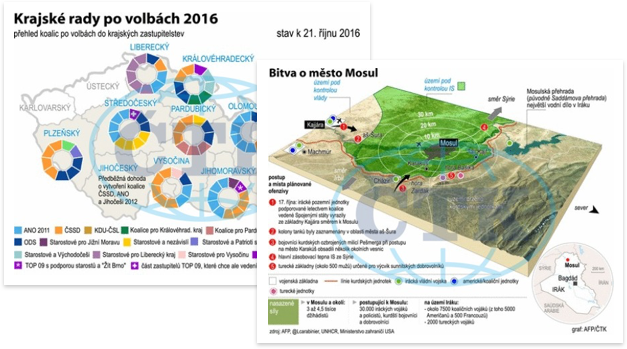
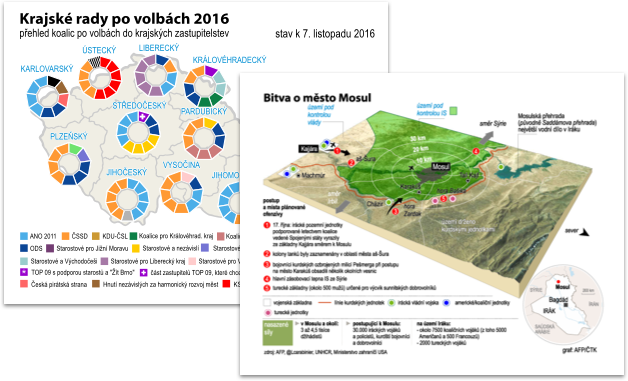
fixes

diff --git a/app/index.html b/app/index.html
@@ -144,30 +144,26 @@
         <h1 class="Text__bold Text__size75 Text__colorWhite marginBottomDouble">
           Nové formáty ve zpravodajství ČTK
         </h1>
-        <div class="backgroundWhiteTrans padSides padTopBottom Section__flexRow">
-           <div class="Col__2 padRight">
-            <p class="Text__size24 Text__colorBlue Text__light marginBottom bottomBorder">
-              Dynamičtější textové i obrazové zpravodajství, nový formát infografiky, rozvoj služby liveblogů i testování živých videopřenosů – to jsou hlavní novinky redakce zpravodajství ČTK.  Většina těchto změn, které ČTK zavedla od 1. června 2016, vychází vstříc potřebám médií s&nbsp;průběžným zpravodajstvím – tedy internetovým zpravodajským portálům, televizím a&nbsp;rádiím.
-            </p>
-          </div>
-          <div class="Col__4">
-            <p class="Text__size21 Text__colorGrey Text__light marginBottom">
-              V&nbsp;textovém zpravodajství výrazně přibylo stručných rychlých informací, především headlinů a&nbsp;krátkých strukturovaných zpráv, jakož i častějších shrnutí. Tento nový přístup se&nbsp;osvědčil zejména u rozsáhlých zpravodajských událostí, jako bylo britské referendum o&nbsp;vystoupení z EU, teroristický útok v&nbsp;Nice, pokus o&nbsp;státní převrat v&nbsp;Turecku i oba očekávané sportovní vrcholy letošního roku – mistrovství Evropy ve fotbale a&nbsp;letní olympiáda v&nbsp;Riu de Janeiro.
-            </p>
-            <p class="Text__size21 Text__colorGrey Text__light marginBottom">
-              ČTK nadále rozvíjí i svou službu <a target="_blank" href="http://www.ctk.cz/sluzby/zpravodajstvi/ctk-live/">ČTK Live</a> – tedy nabídku on-line reportáží (liveblogů) z významných zpravodajských událostí. Od června 2016 agentura výrazně zjednodušila její obchodní model, což přispělo k získání několika nových klientů. 
-            </p>
-            <p class="Text__size21 Text__colorGrey Text__light marginBottom">
-              Zejména webovým médiím je určena nová služba Webfoto. Díky ní odběratelé obrazového servisu dostávají z vybraných událostí pokrývaných fotoreportéry ČTK první snímky dříve než dosud. Fotografové první příspěvek vysílají needitovaný přímo z terénu, poté – po úpravách fotoeditorem –  je snímek vydán klasickým obrazovým servisem ještě jednou.
-            </p>
-            <p class="Text__size21 Text__colorGrey Text__light marginBottom">
-              Další změnou ve zpravodajském servisu ČTK je <a target="_blank" href="http://www.ctk.cz/sluzby/zpravodajstvi/infograficke_zpravodajstvi/">nová infografika</a> zaměřená zejména na potřeby zpravodajských webů a&nbsp;mobilních aplikací. Infografika v&nbsp;novém formátu je rychlejší, jednodušší a&nbsp;snáze přizpůsobitelná potřebám konkrétního vydavatele.
-            </p>
-            <p class="Text__size21 Text__colorGrey Text__light marginBottom">
-              Ve fázi testování je služba živých videopřenosů. Videoredakce ČTK je nově vybavena soupravou pro streamování videa, novou kamerou a&nbsp;dalším příslušenstvím. Videopřenosy bude ČTK připravovat z nejatraktivnějších zpravodajských událostí a&nbsp;bude je testovat s&nbsp;vybranými klienty, kteří již dříve projevili o&nbsp;tuto službu zájem.
-              <span class="Ender"></span>
-            </p>
-          </div>
+        <div class="backgroundWhiteTrans padSides padTopBottom">
+          <p class="Text__size24 Text__colorBlue Text__light marginBottom">
+            Dynamičtější textové i obrazové zpravodajství, nový formát infografiky, rozvoj služby liveblogů i testování živých videopřenosů – to jsou hlavní novinky redakce zpravodajství ČTK.  Většina těchto změn, které ČTK zavedla od 1. června 2016, vychází vstříc potřebám médií s&nbsp;průběžným zpravodajstvím – tedy internetovým zpravodajským portálům, televizím a&nbsp;rádiím.
+          </p>
+          <p class="Text__size21 Text__colorGrey Text__light marginBottom">
+            V&nbsp;textovém zpravodajství výrazně přibylo stručných rychlých informací, především headlinů a&nbsp;krátkých strukturovaných zpráv, jakož i častějších shrnutí. Tento nový přístup se&nbsp;osvědčil zejména u rozsáhlých zpravodajských událostí, jako bylo britské referendum o&nbsp;vystoupení z EU, teroristický útok v&nbsp;Nice, pokus o&nbsp;státní převrat v&nbsp;Turecku i oba očekávané sportovní vrcholy letošního roku – mistrovství Evropy ve fotbale a&nbsp;letní olympiáda v&nbsp;Riu de Janeiro.
+          </p>
+          <p class="Text__size21 Text__colorGrey Text__light marginBottom">
+            ČTK nadále rozvíjí i svou službu <a target="_blank" href="http://www.ctk.cz/sluzby/zpravodajstvi/ctk-live/">ČTK Live</a> – tedy nabídku on-line reportáží (liveblogů) z významných zpravodajských událostí. Od června 2016 agentura výrazně zjednodušila její obchodní model, což přispělo k získání několika nových klientů. 
+          </p>
+          <p class="Text__size21 Text__colorGrey Text__light marginBottom">
+            Zejména webovým médiím je určena nová služba Webfoto. Díky ní odběratelé obrazového servisu dostávají z vybraných událostí pokrývaných fotoreportéry ČTK první snímky dříve než dosud. Fotografové první příspěvek vysílají needitovaný přímo z terénu, poté – po úpravách fotoeditorem –  je snímek vydán klasickým obrazovým servisem ještě jednou.
+          </p>
+          <p class="Text__size21 Text__colorGrey Text__light marginBottom">
+            Další změnou ve zpravodajském servisu ČTK je <a target="_blank" href="http://www.ctk.cz/sluzby/zpravodajstvi/infograficke_zpravodajstvi/">nová infografika</a> zaměřená zejména na potřeby zpravodajských webů a&nbsp;mobilních aplikací. Infografika v&nbsp;novém formátu je rychlejší, jednodušší a&nbsp;snáze přizpůsobitelná potřebám konkrétního vydavatele.
+          </p>
+          <p class="Text__size21 Text__colorGrey Text__light marginBottom">
+            Ve fázi testování je služba živých videopřenosů. Videoredakce ČTK je nově vybavena soupravou pro streamování videa, novou kamerou a&nbsp;dalším příslušenstvím. Videopřenosy bude ČTK připravovat z nejatraktivnějších zpravodajských událostí a&nbsp;bude je testovat s&nbsp;vybranými klienty, kteří již dříve projevili o&nbsp;tuto službu zájem.
+            <span class="Ender"></span>
+          </p>
         </div>
       </div>
     </section>
@@ -179,26 +175,30 @@
         <h1 class="Text__bold Text__size75 Text__colorWhite padTopLarge">
           Poznatky od kolegů z médií jsou klíčové pro rozvoj agenturních služeb
         </h1>
-        <div class="backgroundWhiteTrans padSides padTopBottom marginTopDouble ">
-          <p class="Text__size24 Text__colorBlue Text__light marginBottom">
-            Čerstvé pečivo, čerstvá káva a čerstvé informace o novinkách v agenturních službách se podávaly na pracovních snídaních v ČTK, na nichž kolegy z redakcí novin, zpravodajských webů a rozhlasových a televizních stanic seznámili redakční manažeři ČTK s rozvojovým programem, který je určen zejména zejména médiím.
-          </p>
-          <p class="Text__size21 Text__colorGrey Text__light marginBottom">
-              „Byla to skvělá příležitost k otevřené debatě s kolegy, kteří naši práci využívají každý den,“ ocenila setkání šéfeditorka zpravodajství ČTK Radka Marková. „Poznatky z diskusí jsou pro nás mimořádně důležité při rozhodování o dalším rozvoji našich služeb,“ dodala.
-          </p>
-          <p class="Text__size21 Text__colorGrey Text__light marginBottom">
-            Kolegové z redakcí při jedné z pracovních snídaní takto získali například jasnou představu o výhodách nového servisu <a target="_blank" href="http://www.ctk.cz/sluzby/zpravodajstvi/ctk-live/">ČTK Live</a>, který přináší multimediální on-line reportáže z důležitých a atraktivních událostí. „Zaujaly je nejen rozsah a rychlost, vlastně průběžná aktuálnost tohoto servisu, ale i uživatelská vstřícnost jeho technické podoby,“ říká Radka Marková.
-          </p>
-          <p class="Text__size21 Text__colorGrey Text__light marginBottom">
-            Reportáže, či spíš soustavně updatované liveblogy,  Obsahují vedle textů i fotografie, audia, grafy, odkazy na původní dokumenty a zdroje či komentáře převzaté ze sociálních sítí. IT odborníci ČTK hostům předvedli, jak jednoduše se dají reportáže vkládat do jejich webů i jak snadná je obsluha agenturní publikační platformy, pokud chce klient reportáž upravovat nebo doplňovat o své příspěvky.
-          </p>
-          <p class="Text__size21 Text__colorGrey Text__light marginBottom">
-            Tématem dalšího setkání byly nové formáty zpravodajství ČTK, zejména rozšíření a zrychlení agenturních headlinů, tedy stručných, bleskových zpráv, jež předcházejí standardním zprávám. „Ujistili jsme se, že headliny jsou pro moderní zpravodajská média nepostradatelným formátem a že důrazem na ně reagujeme na jejich potřeby,“ uvedla šéfeditorka s odkazem na debatu s kolegy. Stejně tak přivítali zrychlení fotozpravodajství z horkých aktualit a svižnější dodávky agenturních grafů, o nichž byla při návštěvě ČTK řeč.
-          </p>
-          <p class="Text__size21 Text__colorGrey Text__light marginBottom">
-            Osobní setkávání s lidmi, kteří dennodenně pracují se servisem ČTK, považuje generální ředitel a šéfredaktor agentury Jiří Majstr za klíčovou metodu stanovování strategických priorit  podniku. „Určitě v tom budeme pokračovat,“ ujišťuje.
-            <span class="Ender"></span>
-          </p>
+        <div class="backgroundWhiteTrans padSides padTopBottom marginTopDouble Section__flexRow">
+          <div class="Col__2 padRight">
+            <p class="Text__size24 Text__colorBlue Text__light marginBottom bottomBorder">
+              Čerstvé pečivo, čerstvá káva a čerstvé informace o novinkách v agenturních službách se podávaly na pracovních snídaních v ČTK, na nichž kolegy z redakcí novin, zpravodajských webů a rozhlasových a televizních stanic seznámili redakční manažeři ČTK s rozvojovým programem, který je určen zejména zejména médiím.
+            </p>
+          </div>
+          <div class="Col__4">
+            <p class="Text__size21 Text__colorGrey Text__light marginBottom">
+                „Byla to skvělá příležitost k otevřené debatě s kolegy, kteří naši práci využívají každý den,“ ocenila setkání šéfeditorka zpravodajství ČTK Radka Marková. „Poznatky z diskusí jsou pro nás mimořádně důležité při rozhodování o dalším rozvoji našich služeb,“ dodala.
+            </p>
+            <p class="Text__size21 Text__colorGrey Text__light marginBottom">
+              Kolegové z redakcí při jedné z pracovních snídaní takto získali například jasnou představu o výhodách nového servisu <a target="_blank" href="http://www.ctk.cz/sluzby/zpravodajstvi/ctk-live/">ČTK Live</a>, který přináší multimediální on-line reportáže z důležitých a atraktivních událostí. „Zaujaly je nejen rozsah a rychlost, vlastně průběžná aktuálnost tohoto servisu, ale i uživatelská vstřícnost jeho technické podoby,“ říká Radka Marková.
+            </p>
+            <p class="Text__size21 Text__colorGrey Text__light marginBottom">
+              Reportáže, či spíš soustavně updatované liveblogy,  Obsahují vedle textů i fotografie, audia, grafy, odkazy na původní dokumenty a zdroje či komentáře převzaté ze sociálních sítí. IT odborníci ČTK hostům předvedli, jak jednoduše se dají reportáže vkládat do jejich webů i jak snadná je obsluha agenturní publikační platformy, pokud chce klient reportáž upravovat nebo doplňovat o své příspěvky.
+            </p>
+            <p class="Text__size21 Text__colorGrey Text__light marginBottom">
+              Tématem dalšího setkání byly nové formáty zpravodajství ČTK, zejména rozšíření a zrychlení agenturních headlinů, tedy stručných, bleskových zpráv, jež předcházejí standardním zprávám. „Ujistili jsme se, že headliny jsou pro moderní zpravodajská média nepostradatelným formátem a že důrazem na ně reagujeme na jejich potřeby,“ uvedla šéfeditorka s odkazem na debatu s kolegy. Stejně tak přivítali zrychlení fotozpravodajství z horkých aktualit a svižnější dodávky agenturních grafů, o nichž byla při návštěvě ČTK řeč.
+            </p>
+            <p class="Text__size21 Text__colorGrey Text__light marginBottom">
+              Osobní setkávání s lidmi, kteří dennodenně pracují se servisem ČTK, považuje generální ředitel a šéfredaktor agentury Jiří Majstr za klíčovou metodu stanovování strategických priorit  podniku. „Určitě v tom budeme pokračovat,“ ujišťuje.
+              <span class="Ender"></span>
+            </p>
+          </div>
         </div>
       </div>
     </section>

diff --git a/dist/service-worker.js b/dist/service-worker.js
@@ -31,7 +31,7 @@ importScripts("scripts/sw/sw-toolbox.js","scripts/sw/runtime-caching.js");
 
 
 /* eslint-disable quotes, comma-spacing */
-var PrecacheConfig = [["images/academyImage.jpg","9623b14175a4b0a22e96d3b812e446d1"],["images/akademie.jpg","815ee2028cc63e2fc187d98fc1b227b3"],["images/akademieTn.jpg","0c7380b02eaae10f55acfe489cf11d5d"],["images/asklogo.png","f1a406363556d3dc482a6c9dc1900b21"],["images/coffeeFade.jpg","05de53900043f3e7a270c7e81b8d3101"],["images/coffeeFadeTn.jpg","2bbfc4cdb61f2b0177ba57b491d67f35"],["images/director.jpg","f6e87684d14bbffd740c1d95a00873d2"],["images/directorTn.jpg","4cad5f5327931d79b06fa94f0666075a"],["images/formatsTn.jpg","2c5e1067b879e77fffc7c821bcccc78a"],["images/fotobank-screen1.png","07bc876f8e32319e14f6209f470e9315"],["images/fotobank-screen2.png","92e2e0945eaeb009912e39a7593db3bf"],["images/fotobankaTn.jpg","d46ff2ba33e4fdc64a15913190034cea"],["images/hamburger.svg","d2cb0dda3e8313b990e8dcf5e25d2d0f"],["images/infographics-screens.png","f6d4f87d9182e0cd6e9a79642c456cac"],["images/infographics.jpg","50e81c45a76d7706c2c76599fee7cb7f"],["images/infographicsTn.jpg","a223ac9ca8af921ab63fe532d3f671d2"],["images/logo.png","5a6fc991962bdb70f3d75212c7c9ff8f"],["images/newFormats.jpg","a9c5cb99a229fa26224db3b487a0bb76"],["images/readMore.svg","d552e928e82eb5ed155e53e11b659704"],["images/returnArrow.png","c55556cea0139bab3a1ba8ec157216c8"],["images/signature.png","04c7317fc76f53a8261591bafe53a268"],["images/students.jpg","ce8211632f0605c6d24f37cc344d755f"],["images/studentsTn.jpg","08817ce8077144f75c7798074c1a2183"],["images/touch/apple-touch-icon.png","7326f54bfe6776293f08b34c3a5fde7b"],["images/touch/chrome-touch-icon-192x192.png","571f134f59f14a6d298ddd66c015b293"],["images/touch/icon-128x128.png","7c46d686765c49b813ac5eb34fabf712"],["images/touch/ms-touch-icon-144x144-precomposed.png","452d90b250d6f41a0c8f9db729113ffd"],["images/vondrous.jpg","14c542e25cfc10ed5d548bb855a12c15"],["images/vondrousTn.jpg","574aebb77090940a9aa741986ee74d3d"],["images/webfoto.jpg","99181bd42dcf4e9a1959d93e97598ef8"],["images/webfotoTn.jpg","9a62a5bb76abf0998850b8b592dae044"],["index.html","7026e9442dbdabe0c7508a7c4560f864"],["scripts/main.min.js","8a05a3e403b66160a5c77262da08dc74"],["scripts/sw/runtime-caching.js","e3e34dcb62b5d62453b9215961585488"],["scripts/sw/sw-toolbox.js","e7e54a466864d42dcccc8c3f80a91d1f"],["styles/styles.css","829a582c94d639653b44ce82c5e0599e"]];
+var PrecacheConfig = [["images/academyImage.jpg","9623b14175a4b0a22e96d3b812e446d1"],["images/akademie.jpg","815ee2028cc63e2fc187d98fc1b227b3"],["images/akademieTn.jpg","0c7380b02eaae10f55acfe489cf11d5d"],["images/asklogo.png","f1a406363556d3dc482a6c9dc1900b21"],["images/coffeeFade.jpg","05de53900043f3e7a270c7e81b8d3101"],["images/coffeeFadeTn.jpg","2bbfc4cdb61f2b0177ba57b491d67f35"],["images/director.jpg","f6e87684d14bbffd740c1d95a00873d2"],["images/directorTn.jpg","4cad5f5327931d79b06fa94f0666075a"],["images/formatsTn.jpg","2c5e1067b879e77fffc7c821bcccc78a"],["images/fotobank-screen1.png","07bc876f8e32319e14f6209f470e9315"],["images/fotobank-screen2.png","92e2e0945eaeb009912e39a7593db3bf"],["images/fotobankaTn.jpg","d46ff2ba33e4fdc64a15913190034cea"],["images/hamburger.svg","d2cb0dda3e8313b990e8dcf5e25d2d0f"],["images/infographics-screens.png","a9d9825651b80f3fdaa3f566c620e7c4"],["images/infographics.jpg","50e81c45a76d7706c2c76599fee7cb7f"],["images/infographicsTn.jpg","a223ac9ca8af921ab63fe532d3f671d2"],["images/logo.png","5a6fc991962bdb70f3d75212c7c9ff8f"],["images/newFormats.jpg","a9c5cb99a229fa26224db3b487a0bb76"],["images/readMore.svg","d552e928e82eb5ed155e53e11b659704"],["images/returnArrow.png","c55556cea0139bab3a1ba8ec157216c8"],["images/signature.png","04c7317fc76f53a8261591bafe53a268"],["images/students.jpg","ce8211632f0605c6d24f37cc344d755f"],["images/studentsTn.jpg","08817ce8077144f75c7798074c1a2183"],["images/touch/apple-touch-icon.png","7326f54bfe6776293f08b34c3a5fde7b"],["images/touch/chrome-touch-icon-192x192.png","571f134f59f14a6d298ddd66c015b293"],["images/touch/icon-128x128.png","7c46d686765c49b813ac5eb34fabf712"],["images/touch/ms-touch-icon-144x144-precomposed.png","452d90b250d6f41a0c8f9db729113ffd"],["images/vondrous.jpg","14c542e25cfc10ed5d548bb855a12c15"],["images/vondrousTn.jpg","574aebb77090940a9aa741986ee74d3d"],["images/webfoto.jpg","99181bd42dcf4e9a1959d93e97598ef8"],["images/webfotoTn.jpg","9a62a5bb76abf0998850b8b592dae044"],["index.html","7026e9442dbdabe0c7508a7c4560f864"],["scripts/main.min.js","8a05a3e403b66160a5c77262da08dc74"],["scripts/sw/runtime-caching.js","e3e34dcb62b5d62453b9215961585488"],["scripts/sw/sw-toolbox.js","e7e54a466864d42dcccc8c3f80a91d1f"],["styles/styles.css","829a582c94d639653b44ce82c5e0599e"]];
 /* eslint-enable quotes, comma-spacing */
 var CacheNamePrefix = 'sw-precache-v1-web-starter-kit-' + (self.registration ? self.registration.scope : '') + '-';
 
